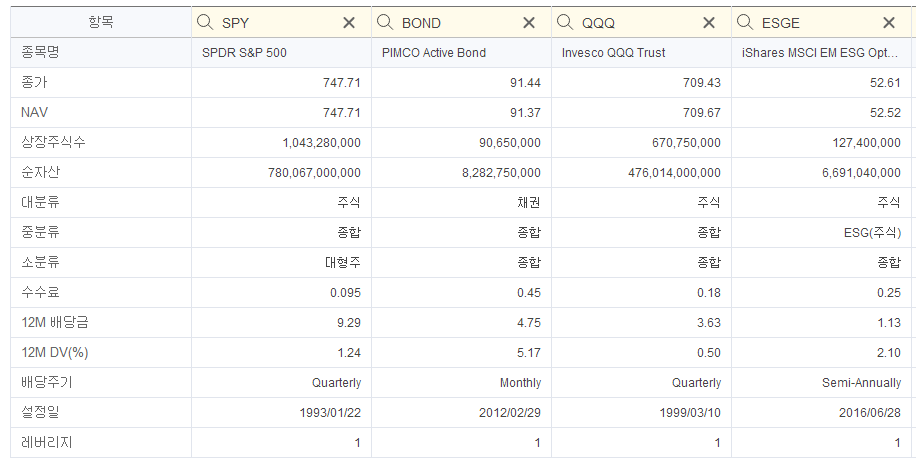
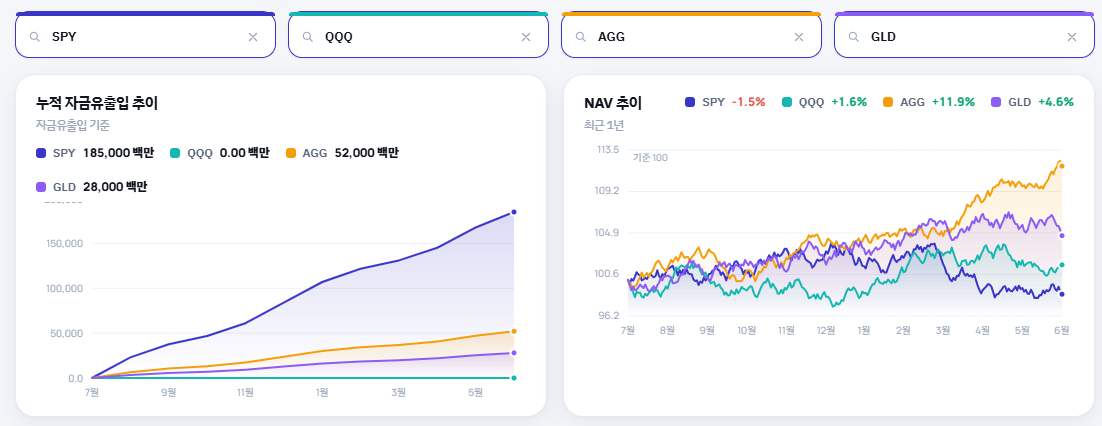
프로필 카드 자금유출입 바를 양방향(중앙 기준) 디자인으로 변경

diff --git a/compare.js b/compare.js
@@ -250,11 +250,15 @@ function renderCmpTable(){
     const tagsHtml=tags.map(t=>`<span class="cmp-card-tag">${t}</span>`).join("");
     const flowRows=PKEYS.map((k,i)=>{
       const v=flowVals[i];
-      const pct=(Math.abs(v)/maxAbs*100).toFixed(1);
+      const halfPct=(Math.abs(v)/maxAbs*50).toFixed(1);
       const clr=v>=0?"var(--inflow)":"var(--outflow)";
+      const barStyle=v>=0?`left:50%;width:${halfPct}%`:`right:50%;width:${halfPct}%`;
       return `<div class="cmp-card-flow-row">
         <span class="cmp-card-flow-lbl">${PLBLS[k]}</span>
-        <div class="cmp-card-flow-track"><div class="cmp-card-flow-bar" style="width:${pct}%;background:${clr}"></div></div>
+        <div class="cmp-card-flow-track">
+          <div class="cmp-card-flow-center"></div>
+          <div class="cmp-card-flow-bar" style="${barStyle};background:${clr}"></div>
+        </div>
         <span class="cmp-card-flow-val" style="color:${clr}">${fmt(v)}</span>
       </div>`;
     }).join("");

diff --git a/styles.css b/styles.css
@@ -413,8 +413,9 @@
   .cmp-card-flows{display:flex;flex-direction:column;gap:5px;flex:1;}
   .cmp-card-flow-row{display:grid;grid-template-columns:28px 1fr 62px;gap:6px;align-items:center;}
   .cmp-card-flow-lbl{font-size:10px;font-weight:700;color:var(--ink-3);}
-  .cmp-card-flow-track{height:5px;background:var(--line);border-radius:3px;overflow:hidden;}
-  .cmp-card-flow-bar{height:100%;border-radius:3px;}
+  .cmp-card-flow-track{height:5px;background:var(--line);border-radius:3px;position:relative;}
+  .cmp-card-flow-center{position:absolute;left:50%;top:0;width:1px;height:100%;background:var(--ink-3);opacity:0.4;}
+  .cmp-card-flow-bar{position:absolute;top:0;height:100%;border-radius:3px;}
   .cmp-card-flow-val{font-size:10px;font-weight:700;text-align:right;}
   .cmp-card-div{display:flex;align-items:center;gap:8px;flex-wrap:wrap;padding-top:10px;margin-top:auto;border-top:1px solid var(--line);font-size:11px;font-weight:600;color:var(--ink-2);}
 
